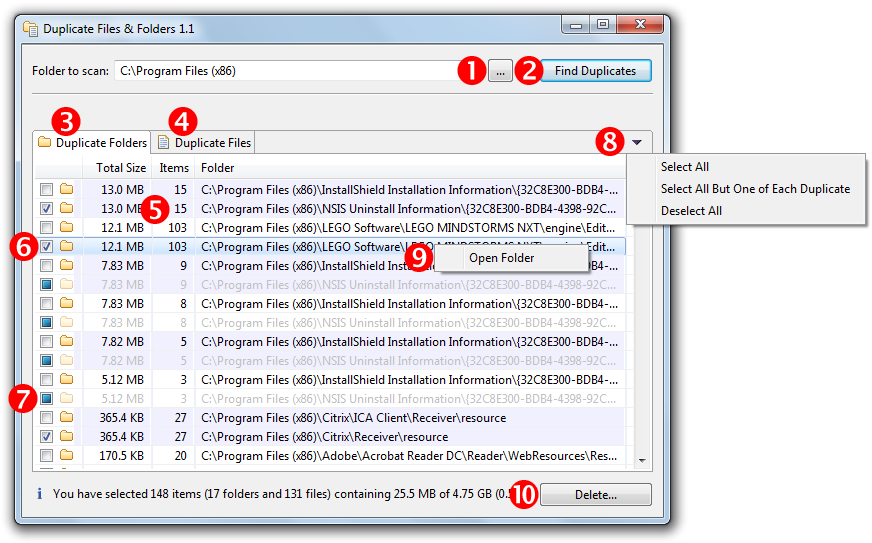
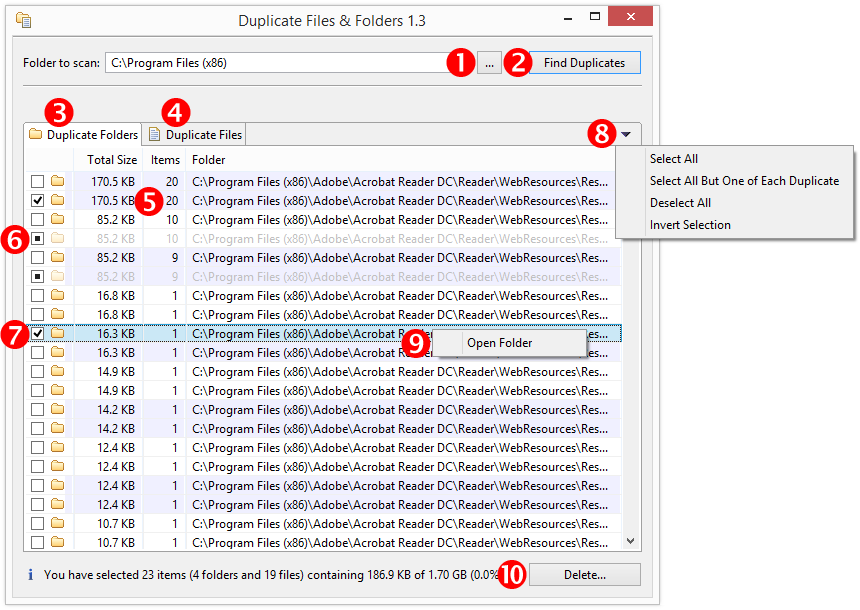
Add "Invert Selection"

diff --git a/src/de/lorenzwiest/duplicatefilesandfolders/DuplicateFilesAndFolders.java b/src/de/lorenzwiest/duplicatefilesandfolders/DuplicateFilesAndFolders.java
@@ -131,6 +131,7 @@ public class DuplicateFilesAndFolders extends ApplicationWindow {
 	private MenuItem itemSelectAll;
 	private MenuItem itemSelectAllButOneOfEachDuplicate;
 	private MenuItem itemDeselectAll;
+	private MenuItem itemInvertSelection;
 
 	public DuplicateFilesAndFolders() {
 		super(null);
@@ -145,7 +146,7 @@ public class DuplicateFilesAndFolders extends ApplicationWindow {
 	@Override
 	protected void configureShell(Shell shell) {
 		super.configureShell(shell);
-		shell.setText("Duplicate Files & Folders 1.2");
+		shell.setText("Duplicate Files & Folders 1.3");
 		shell.setImage(IMG_ICON);
 	}
 
@@ -511,6 +512,16 @@ public class DuplicateFilesAndFolders extends ApplicationWindow {
 			}
 		});
 
+		this.itemInvertSelection = new MenuItem(menu, SWT.PUSH);
+		this.itemInvertSelection.setText("Invert Selection");
+		this.itemInvertSelection.setEnabled(false);
+		this.itemInvertSelection.addSelectionListener(new SelectionAdapter() {
+			@Override
+			public void widgetSelected(SelectionEvent e) {
+				itemInvertSelectionSelected();
+			}
+		});
+
 		toolItem.setImage(IMG_MENU);
 		toolItem.addSelectionListener(new SelectionAdapter() {
 			@Override
@@ -607,6 +618,28 @@ public class DuplicateFilesAndFolders extends ApplicationWindow {
 		});
 	}
 
+	private void itemInvertSelectionSelected() {
+		final CTabItem selectedTab = this.tabFolder.getSelection();
+		final CTabItem tabItemFolders = this.tabItemFolders;
+		final CheckboxTableViewer tbv = (selectedTab == this.tabItemFolders) ? this.tbvFolders : this.tbvFiles;
+
+		BusyIndicator.showWhile(Display.getDefault(), new Runnable() {
+			@Override
+			public void run() {
+				for (TableItem tableItem : tbv.getTable().getItems()) { // tableItem(s) are in visual sort order
+					TableElement tableElement = (TableElement) tableItem.getData();
+					boolean isChecked = tableElement.isChecked();
+					CheckStateChangedEvent event = new CheckStateChangedEvent(tbv, tableElement, !isChecked);
+					if (selectedTab == tabItemFolders) {
+						tbvFoldersCheckStateChanged(event);
+					} else {
+						tbvFilesCheckStateChanged(event);
+					}
+				}
+			}
+		});
+	}
+
 	private void updatePopUpMenu() {
 		CTabItem selectedTab = this.tabFolder.getSelection();
 		TableElement[] tableElements = (selectedTab == this.tabItemFolders) ? this.folderTableElements : this.fileTableElements;
@@ -614,6 +647,7 @@ public class DuplicateFilesAndFolders extends ApplicationWindow {
 		this.itemSelectAll.setEnabled(isEnabled);
 		this.itemSelectAllButOneOfEachDuplicate.setEnabled(isEnabled);
 		this.itemDeselectAll.setEnabled(isEnabled);
+		this.itemInvertSelection.setEnabled(isEnabled);
 	}
 
 	private Control createTabItemDuplicateFoldersContent(Composite parent) {

diff --git a/README.md b/README.md
@@ -45,7 +45,7 @@ Enjoy &mdash; Lorenz
 5. Duplicate items are grouped by background color.
 6. Select a duplicate item for deletion.
 7. Child items of selected items are automatically selected and dimmed.
-8. (Optional) Select all items, select all but one item of each duplicate item, or deselect all items for deletion.
+8. (Optional) Select all items, select all but one item of each duplicate item, deselect all items for deletion, or invert your selection.
 9. (Optional) Open a folder (or the containing folder of a file) with the context menu.
 10. Open the _Confirm Deleting Items_ dialog.
 
